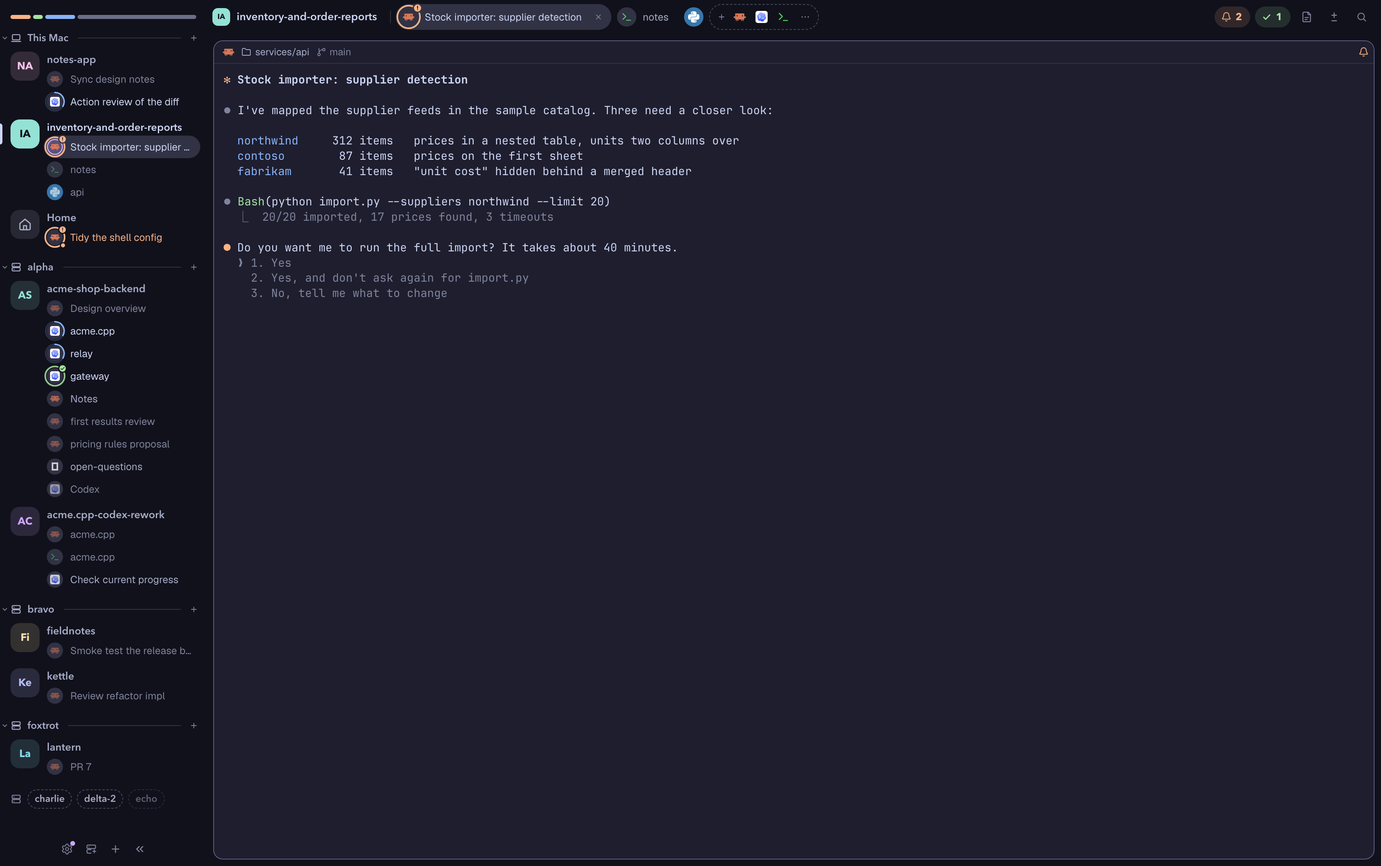
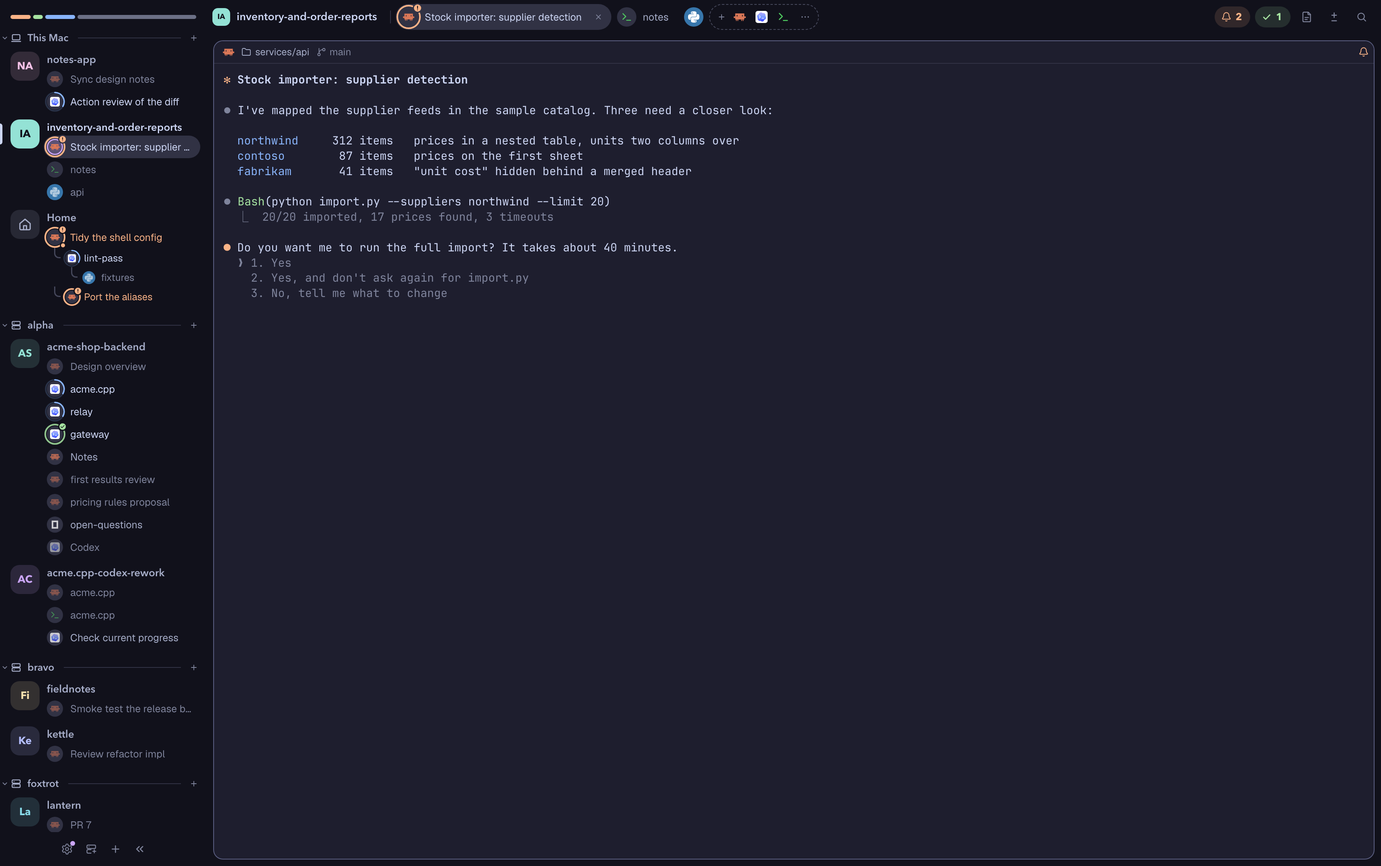
List sub-agents as rows under their tab in glyph's rail
A terminal that a tab's agent started with `hc run`, and that has no pane,
now gets a 24px row under the tab's: a hook from its starter's logo, a
16px orb and its name. One at work or blocked is drawn as a tab is, one at
rest is dim, and a click opens Herdr's peek at it. The dot on the tab's
orb stays, and the logos-only rail shows only the dot.

A sub-agent that was given a pane no longer counts as one. It shows as
that pane, and what it started is listed under the tab that holds it, so
nothing is listed twice.

The sample fleet has named, nested and ended sub-agents, and the rail test
covers the rows (38 checks). RECIPE.md, the notes and preview.png follow.

Changed region(s): [[0.0, 0.281, 0.124, 0.9678]]

diff --git a/glyph/mods/glyph/data.js b/glyph/mods/glyph/data.js
@@ -51,6 +51,18 @@ export const tilde = (p) => (p ?? "").replace(/^\/(?:Users|home)\/[^/]+(?=\/|$)/
 // Agents print a status glyph (a spinner, a star) before their title.
 const clean = (s) => (s ?? "").replace(/^[^\p{L}\p{N}~/]+/u, "").trim();
 const push = (map, key, value) => (map.get(key) ?? map.set(key, []).get(key)).push(value);
+// Whether a word only repeats its program ("Codex"): the logo says that already.
+const echoes = (program, w) => [program?.name, program?.key].some((p) => p && p.toLowerCase() === w.toLowerCase());
+// What a terminal's own title tells that its logo and its project's tile don't, or "".
+// Some agents end theirs with " | <project>" or " | <the folder they are in>" (`names`).
+// Words that only repeat the program, a folder or a user@host tell nothing, and a terminal
+// nobody titled is called by its address ("t7", "alpha/t7").
+function telling(whole, address, program, names) {
+  const tail = names.map((n) => ` | ${n}`.toLowerCase()).find((x) => whole.toLowerCase().endsWith(x));
+  const said = tail ? whole.slice(0, -tail.length).trim() : whole;
+  const unset = said === address || said === address.split("/").pop();
+  return said && !unset && !echoes(program, said) && !/^[~/]|^[A-Za-z]:\\/.test(said) && !said.includes("@") ? said : "";
+}
 
 export function duration(ms) {
   const m = Math.floor(ms / 60000);
@@ -66,18 +78,30 @@ export function model(machineInfo = []) {
   const sp = spaces(), ps = panes(), terms = terminals();
   const hue = hues(sp);
   const kept = shared(BLANK) ?? {};
-  const termBy = new Map(), kids = new Map(), byTab = new Map();
+  const termBy = new Map(), kids = new Map(), byTab = new Map(), paned = new Set();
   for (const x of terms) {
     termBy.set(x.address, x);
     if (x.parent && x.state === "live") push(kids, x.parent, x);
   }
-  for (const p of ps) push(byTab, p.tab, p);
-  // Every live sub-agent under a terminal, however deep.
-  const below = (address, seen = new Set()) => (kids.get(address) ?? []).flatMap((k) => {
-    if (seen.has(k.address)) return [];
-    seen.add(k.address);
-    return [k, ...below(k.address, seen)];
-  });
+  for (const p of ps) {
+    push(byTab, p.tab, p);
+    if (p.terminal) paned.add(p.terminal);
+  }
+  // Every live sub-agent under a terminal, however deep, each right after the one that
+  // started it. One that was given a pane (terminal.keep) is not among them: it shows as
+  // that pane, in whichever tab, and what it started is listed there.
+  const below = (s, address, depth = 1) => (kids.get(address) ?? []).flatMap((k) => (paned.has(k.address) ? [] : [sub(s, k, depth), ...below(s, k.address, depth + 1)]));
+  // A sub-agent as a line under its tab shows it. It goes by the name it was started
+  // with, else by what it says it is doing, else by its program.
+  const sub = (s, k, depth) => {
+    const own = telling(clean(k.report?.title), k.address, k.program, [s.name, ...tilde(k.cwd).split("/").filter(Boolean)]);
+    return {
+      id: k.address, depth, program: k.program ?? null, own,
+      // It reports to its parent: its "done" is not news, its error is.
+      status: k.status === "error" ? "blocked" : k.status === "done" ? "idle" : k.status ?? null,
+      label: k.name || own || k.template || k.program?.name || k.address,
+    };
+  };
 
   const tab = (s, c) => {
     const mine = byTab.get(c.id) ?? [];
@@ -94,33 +118,17 @@ export function model(machineInfo = []) {
       if (!lead || (agent && !had) || (agent === had && rank(p.status) > rank(lead.status))) lead = p;
     }
     let status = c.status ?? null;
-    const subs = { count: 0, status: null };
-    for (const p of mine) {
-      if (!p.terminal) continue;
-      for (const k of below(p.terminal)) {
-        // A sub-agent reports to its parent: its "done" is not news, its error is.
-        const st = k.status === "error" ? "blocked" : k.status === "done" ? "idle" : k.status;
-        subs.count += 1;
-        if (rank(st) > rank(subs.status)) subs.status = st;
-      }
-    }
+    // `list` is what the rail's lines show; `count` and `status` are the orb's dot.
+    const subs = { count: 0, status: null, list: [] };
+    for (const p of mine) if (p.terminal) subs.list.push(...below(s, p.terminal));
+    subs.count = subs.list.length;
+    for (const k of subs.list) if (rank(k.status) > rank(subs.status)) subs.status = k.status;
     if (rank(subs.status) > rank(status)) status = subs.status;
     const term = lead ? termBy.get(lead.terminal) : null;
     const path = tilde(lead?.cwd).split("/").filter(Boolean);
     const folder = path[path.length - 1] ?? "";
-    // Some agents end their title with " | <project>" or " | <the folder they are in>":
-    // the tile and the pane's header already say which.
-    const whole = clean(term?.report?.title) || clean(lead?.title);
-    const tail = [s.name, ...path].map((n) => ` | ${n}`.toLowerCase()).find((x) => whole.toLowerCase().endsWith(x));
-    const said = tail ? whole.slice(0, -tail.length).trim() : whole;
-    // Words that only repeat the program ("Codex") or the folder say nothing a logo doesn't,
-    // and a terminal nobody titled is called by its address ("t7", "alpha/t7").
-    const echo = (w) => [lead?.program?.name, lead?.program?.key].some((p) => p && p.toLowerCase() === w.toLowerCase());
-    const address = lead?.terminal ?? "";
-    const unset = said === address || said === address.split("/").pop();
-    const named = c.named && !echo(c.name);
-    const telling = said && !unset && !echo(said) && !/^[~/]|^[A-Za-z]:\\/.test(said) && !said.includes("@");
-    const own = telling ? said : "";
+    const own = telling(clean(term?.report?.title) || clean(lead?.title), lead?.terminal ?? "", lead?.program, [s.name, ...path]);
+    const named = c.named && !echoes(lead?.program, c.name);
     const title = named ? c.name : own;
     return {
       id: c.id, index: c.index, name: c.name, named, active: c.active, shown: s.active && c.active,
@@ -182,6 +190,11 @@ export function goTab(c) {
     run("space.select", { id: c.space.id });
     run("tab.select", { id: c.id });
   }
+}
+
+// Look at a sub-agent: it has no pane, so in Herdr's peek, over the shown tab.
+export function goSub(k) {
+  run("terminal.peek", { terminal: k.id });
 }
 
 // The program a new plain terminal runs, as a shell tab shows it: asked of one that is open,
@@ -275,6 +288,12 @@ export function tabTip(c, now, seen) {
   const how = c.status === "blocked" ? "needs you" : c.status === "done" ? "finished" : c.status === "working" ? `working${ago}` : c.status === "idle" ? `idle${ago}` : "";
   const subs = c.subs.count ? `${c.subs.count} sub-agent${c.subs.count === 1 ? "" : "s"}` : "";
   return [what, where, how, subs].filter(Boolean).join("  ·  ");
+}
+
+// A sub-agent's words: its name, what it says it is doing, and how it is doing.
+export function subTip(k) {
+  const how = k.status === "blocked" ? "needs you" : k.status === "working" ? "working" : k.status === "idle" ? "idle" : "";
+  return [k.label, k.own !== k.label ? k.own : "", how].filter(Boolean).join("  ·  ");
 }
 
 export function find(node, id) {

diff --git a/glyph/mods/glyph/rail.js b/glyph/mods/glyph/rail.js
@@ -2,8 +2,9 @@
 // each project is a square tile in its hue beside its name, and each of the project's
 // tabs is a row: a round logo (its ring says how it is doing) and the few words that
 // tell it from the others. Click a row to go there, right-click for its menu; click a
-// tile or a name for the project. The strip on top is every tab by state (needs you,
-// finished, working, idle): click a color to visit the next one in it.
+// tile or a name for the project. The sub-agents a tab's agents started are smaller
+// rows under it: click one to peek at it. The strip on top is every tab by state (needs
+// you, finished, working, idle): click a color to visit the next one in it.
 // A machine's line folds its projects away and back (click its name): folded, the line
 // shows how its tabs are doing as one small strip, so nothing that needs you is hidden.
 // Machines with nothing running share one row of dashed pills at the end: click one to
@@ -14,7 +15,7 @@
 import { div, svg } from "gpui-kit";
 import { v_flex, h_flex } from "gpui-base";
 import { theme, run, hc, layout, window as win, openOverlay, agents, setAgentOrder, updates } from "herdr";
-import { model, goTab, jump, tabTip, since, find, tabMenu } from "./data.js";
+import { model, goTab, goSub, jump, tabTip, subTip, since, find, tabMenu } from "./data.js";
 import { ICON, DISPLAY, alpha, orb, tile, iconButton } from "./ui.js";
 
 const COMPACT = 160, WIDE = 256;
@@ -193,6 +194,24 @@ export class Rail {
       .child(div().flex_1().min_w(0).truncate().text_size(12.5).text_color(ink).child(c.label));
   }
 
+  // A sub-agent as a smaller line under its tab's: a hook from the one that started it,
+  // its logo and its name. One at work or in trouble is as bright as a tab; one at rest
+  // is dim, since what it did is its parent's to tell. Click it to look at it.
+  sub(t, k) {
+    const quiet = !k.status || k.status === "idle";
+    const ink = k.status === "blocked" ? t.blocked : quiet ? t.dim : t.foreground;
+    // The hook hangs from the middle of its parent's logo: 13px in under a tab's, and 21px
+    // further for each sub-agent between.
+    return h_flex().h(24).flex_none().ml(-4).pl(13 + (k.depth - 1) * 21).items_center()
+      .child(div().self_start().flex_none().w(8).h(13).mt(-1).mr(3).border_l(1.5).border_b(1.5).rounded_bl(6).border_color(t.input))
+      .child(h_flex().id(`sub-${k.id}`).h(24).flex_1().min_w(0).pr(9).gap(4).items_center().rounded(12).cursor_pointer()
+        .hover((x) => x.bg(t.hover))
+        .tooltip(subTip(k))
+        .on_click(() => goSub(k))
+        .child(orb(t, { size: 16, program: k.program, status: k.status, fade: 0.6 }))
+        .child(div().flex_1().min_w(0).truncate().text_size(12).text_color(ink).child(k.label)));
+  }
+
   space(t, s, wide, now, width) {
     const select = () => run("space.select", { id: s.id });
     const menu = () => openOverlay({ mod: "menu", kind: "popup", width: 200, height: 260, props: { tab: "space", target: { id: s.id } } });
@@ -226,7 +245,7 @@ export class Rail {
           .on_click(select)
           .on_mouse_down("right", (_e, cx) => { cx.stop_propagation(); menu(); })
           .child(s.label))
-        .children(s.tabs.map((c) => this.row(t, c, s, now))));
+        .children(s.tabs.flatMap((c) => [this.row(t, c, s, now), ...c.subs.list.map((k) => this.sub(t, k))])));
   }
 
   foot(t, wide) {

diff --git a/dev/glyph/harness/herdr-fake.js b/dev/glyph/harness/herdr-fake.js
@@ -14,12 +14,21 @@ const P = {
 };
 let n = 0;
 const PANES = [], TERMS = [];
+// What a terminal started with `hc run`, and what those started: { prog, status, name, title,
+// gone, kids }. Each is addressed after its parent ("t6-1", "t6-1-1").
+function kids(parent, cwd, list = []) {
+  list.forEach((k, i) => {
+    const address = `${parent}-${i + 1}`, status = k.status ?? null;
+    TERMS.push({ address, state: k.gone ? "exited" : "live", status, parent, name: k.name ?? null, template: null, cwd, program: P[k.prog ?? "codex"], report: { state: status, title: k.title ?? null } });
+    kids(address, cwd, k.kids);
+  });
+}
 function tab(space, name, prog, status, title, ago, extra = {}) {
   n += 1;
   const id = `${space.machine ? space.machine + "/" : ""}tb${n}`, pane = `p${n}`, term = `${space.machine ? space.machine + "/" : ""}t${n}`;
   PANES.push({ pane, terminal: term, tab: id, title: extra.untitled ? term : title ? `✳ ${title}` : P[prog].name, cwd: space.cwd, branch: space.branch, status, app: prog, program: P[prog], focused: Boolean(extra.active) && space.active, zoomed: false, movable: false });
   TERMS.push({ address: term, state: "live", status, parent: null, program: P[prog], report: { state: status, title: title ?? null } });
-  for (const k of extra.kids ?? []) TERMS.push({ address: `${term}-k${k}`, state: "live", status: k, parent: term, program: P.codex });
+  kids(term, space.cwd, extra.kids);
   return { id, index: space.tabs.length + 1, name: name ?? String(space.tabs.length + 1), named: Boolean(name), active: Boolean(extra.active), status, panes: 1, zoomed: false, settled: false, settled_at: null,
     changed_at: ago == null ? null : now - ago * 60000, working_since: status === "working" && ago != null ? now - ago * 60000 : null };
 }
@@ -38,7 +47,13 @@ space("sp2", "inventory-and-order-reports", null, "main", "/Users/me/code/invent
   ["notes", "shell", null, null, null],
   [null, "python", null, null, null],
 ]);
-space("sp3", "~", null, null, "/Users/me", ACTIVE === "sp3", [[null, "claude", "working", "Tidy the shell config", 12, { active: true, kids: ["working", "error"] }]]);
+// Its agent started three helpers: one named, at work, with a program of its own; one that
+// goes by its title and hit an error; and one that has ended, which gets no row.
+space("sp3", "~", null, null, "/Users/me", ACTIVE === "sp3", [[null, "claude", "working", "Tidy the shell config", 12, { active: true, kids: [
+  { status: "working", name: "lint-pass", title: "Lint the zshrc", kids: [{ prog: "python", name: "fixtures" }] },
+  { prog: "claude", status: "error", title: "✳ Port the aliases" },
+  { status: "idle", name: "old-run", gone: true },
+] }]]);
 space("alpha/sp4", "acme-shop-backend", "alpha", "order-queue", "/home/me/acme-shop-backend", ACTIVE === "alpha/sp4", [
   [null, "claude", "idle", "Design overview", 800],
   ["acme.cpp", "codex", "working", "Fuzz the config loader", 2],

diff --git a/dev/glyph/tools/spec2html.py b/dev/glyph/tools/spec2html.py
@@ -107,7 +107,7 @@ def px(v): return "%gpx" % v
 SIMPLE = {
     "flex": "display:flex", "flex_none": "flex:none", "flex_1": "flex:1 1 0%", "flex_wrap": "flex-wrap:wrap",
     "flex_col": "flex-direction:column", "flex_row": "flex-direction:row",
-    "items_center": "align-items:center", "items_start": "align-items:flex-start", "items_end": "align-items:flex-end",
+    "items_center": "align-items:center", "items_start": "align-items:flex-start", "items_end": "align-items:flex-end", "self_start": "align-self:flex-start",
     "justify_center": "justify-content:center", "justify_between": "justify-content:space-between", "justify_end": "justify-content:flex-end",
     "size_full": "width:100%;height:100%", "w_full": "width:100%", "h_full": "height:100%",
     "rounded_full": "border-radius:9999px", "absolute": "position:absolute", "relative": "position:relative",
@@ -123,7 +123,7 @@ VALUE = {
     "pl": "padding-left", "pr": "padding-right", "pt": "padding-top", "pb": "padding-bottom",
     "ml": "margin-left", "mr": "margin-right", "mt": "margin-top", "mb": "margin-bottom",
     "text_size": "font-size", "border": "border-width", "border_b": "border-bottom-width", "border_t": "border-top-width",
-    "border_l": "border-left-width", "border_r": "border-right-width",
+    "border_l": "border-left-width", "border_r": "border-right-width", "rounded_bl": "border-bottom-left-radius",
 }
 unknown = set()
 

diff --git a/glyph/RECIPE.md b/glyph/RECIPE.md
@@ -22,9 +22,10 @@ Three regions: the rail down the left, the bar across the top of the rest, and t
 - Each machine with projects has a 26px line: a 10px chevron, a laptop or server icon, its name at 12.5px, a hairline, and a 18px "+". One machine alone gets no line.
 - Under it, each project is a 36px tile beside its name at 13px. The shown project also has a 3px bar at the rail's edge.
 - Each tab is a 28px row: a 20px orb and a label at 12.5px. The shown tab's row is raised (`#313244`).
+- Each sub-agent is a 24px row under its tab's: a hook in `#45475a` hanging from the logo of whatever started it, a 16px orb and a name at 12px. A sub-agent is a terminal that one of the tab's agents started with Herdr's `hc run`, a helper agent or a plain program, and that has no pane.
 - Machines with nothing running share one row of dashed pills at the end.
 - A 42px foot has four icon buttons: settings, add a machine, new project, and one that switches the rail between 256px and 160px.
-- Narrower than 200px, the rows go and each project's orbs wrap beside its tile.
+- Narrower than 200px, the rows go, sub-agents' too, and each project's orbs wrap beside its tile.
 
 **Bar**
 
@@ -53,18 +54,21 @@ Three regions: the rail down the left, the bar across the top of the rest, and t
 - Done: a green (`#a6e3a1`) ring with a tick badge.
 - Idle: no ring. The logo fades to 75% after 15 minutes of rest and to 50% after two hours.
 - A tab takes the most urgent state of its agents and their sub-agents. Sub-agents add one small dot in their most urgent color.
+- A sub-agent's row shows working and blocked as a tab does, and its error counts as blocked. Finished or idle, the row is dim.
 
 **Going places**
 
 - Click a rail row or a bar pill to show that tab. Click a tile or a project's name to show the project.
+- Click a sub-agent's row for Herdr's peek at its terminal, over the shown tab.
 - Click a color in the strip at the top of the rail, or the bell or the tick in the bar, to go to the next tab in that state.
 - Click the project's name in the bar, or search, for Herdr's picker.
 - Scroll over the bar to step through its tabs.
-- Hover anything for its words: a tab's title, project, machine, state, how long, and sub-agents.
+- Hover anything for its words: a tab's title, project, machine, state, how long, and how many sub-agents; a sub-agent's name, title and state.
 
 **Tabs**
 
 - A tab's title is the name it was given, else its agent's own title, else nothing. The rail falls back to its folder or program.
+- A sub-agent goes by the name it was started with (`hc run --name`), else its agent's own title, else its program.
 - Titles in the bar share the room: short ones stay whole, long ones are cut to a common width, at most 240px. With under 32px each, every tab but the shown one shows its logo only.
 - Double-click a tab, press F2, or right-click and choose Rename to name it. The dialog is Herdr's own, with the agent's title as its hint.
 - Right-click a tab for Rename, New tab and Close.
@@ -125,7 +129,7 @@ Three regions: the rail down the left, the bar across the top of the rest, and t
 - Calls: `run`, `hc`, `openOverlay`, `closeOverlay`, `nextCommand`, `notify`, `shared`, `setShared`, `setAgentOrder`.
 - Shared values: `space.colors` (the hues, shared with Herdr's Spaces list), `new-menu.agents` (read), `glyph.blank` (an empty project's name and folder), `glyph.shut` (a close asked of the bar).
 - Kept in the rail's `localStorage`: `seen` (since when each tab has rested) and `folded` (the folded machines). Each place the layout puts the mod is a copy with a `localStorage` of its own.
-- Commands: `tab.select`, `tab.new`, `tab.close`, `tab.move`, `tab.next`, `tab.prev`, `space.select`, `space.new`, `pane.focus`, `pane.split`, `pane.zoom`, `pane.close`, `mod.open`, `layout.resize`, `layout.select`, `layout.show`, `layout.hide`, `app.settings`, `window.minimize`, `window.maximize`, `window.close`.
+- Commands: `tab.select`, `tab.new`, `tab.close`, `tab.move`, `tab.next`, `tab.prev`, `space.select`, `space.new`, `pane.focus`, `pane.split`, `pane.zoom`, `pane.close`, `terminal.peek`, `mod.open`, `layout.resize`, `layout.select`, `layout.show`, `layout.hide`, `app.settings`, `window.minimize`, `window.maximize`, `window.close`.
 - Herdr's own mods, opened as they are: `picker`, `menu` (the project menu), `prompt` (rename), `new-menu`, `machine-add`, `files`, `changes`.
 - `setAgentOrder` follows the rail, so `agent.next` and `agent.prev` walk it top to bottom.
 
@@ -159,6 +163,13 @@ The rail runs `hc machine ls --json` every 20 s, to learn of machines without pr
 - The bar runs its follow-up commands from a 120 ms timer, not from `render`. With nothing drawn it still looks about once a second.
 - An error inside the loop around `nextCommand()` would end every key. The loop catches it and posts a notice.
 
+**Sub-agents**
+
+- Only terminals get rows. A helper that runs inside its agent's own process, such as Claude Code's Agent tool, is not a terminal, and Herdr reports nothing about it.
+- A row lasts as long as its terminal. A program an agent runs through `hc run` and waits for has a row until it exits, so rows come and go.
+- A sub-agent that was given a pane (`terminal.keep`, or keep in the peek) is a pane like any other and has no row. What it started is listed under the tab that holds its pane.
+- The rail keeps times for tabs only, so a resting sub-agent does not fade by age as a tab does. It is dim at once.
+
 **Keys**
 
 - `keys.json` is written for macOS. Whoever installs the layout merges its section by hand into their own `~/.config/herdr-app/keys.json`, after the mod is in place: ⌘T and ⌘W go to the bar, and a bar that doesn't know a command ignores it.
@@ -173,7 +184,7 @@ The rail runs `hc machine ls --json` every 20 s, to learn of machines without pr
 
 - The launcher pill shows at most four agents.
 - The rail's default must stay labelled. A rail of logos alone did not say which agent was which.
-- Not built: git ahead and behind counts, dragging to reorder projects, a custom toast. Zoom still shows in Herdr's terminal right-click menu for a lone pane, since a layout can only replace that menu whole.
+- Not built: git ahead and behind counts, dragging to reorder projects, a custom toast, a menu on a sub-agent's row (the peek has keep and close). Zoom still shows in Herdr's terminal right-click menu for a lone pane, since a layout can only replace that menu whole.
 - Built and checked on macOS with herdr-app 0.1.15. The window buttons for Linux and Windows have never been drawn there.
 - The mod runs under any theme, but the hues, the ink on filled tiles and the focus border were picked for a dark one.
 
@@ -183,6 +194,7 @@ The rail runs `hc machine ls --json` every 20 s, to learn of machines without pr
 - With projects on two machines, each has a line with its name, and machines with nothing running share one dashed row.
 - An agent at work shows the turning blue arc. One that needs you pulses peach and raises the bell's count. One that finished wears the green ring and raises the tick's count.
 - Clicking a rail row shows that tab. F2 opens the rename dialog with the agent's own title as its hint.
+- An agent that runs `hc run --bg --name helper claude "…"` gets a row named helper under its tab, with the turning arc while the helper works. Clicking the row opens Herdr's peek at it.
 - Dragging a pill moves the tab to where it stood when released.
 - ⌘W on a shell closes it. ⌘W on an agent turns its tab red, and a second ⌘W within 3 s closes it.
 - After a close the tab after it is shown.

diff --git a/CONTRIBUTING.md b/CONTRIBUTING.md
@@ -62,7 +62,7 @@ Paths below are relative to `dev/glyph/`. Every script finds that folder and the
 - `tools/preview-states.sh` does the same for the states of `harness/all.sh`: a folded machine, a tab and a pane header waiting for their second close press, the tab menu asking again, and a project's empty page. `spec2html.py --body F` draws a mod pane's tree where the terminal would be.
 - `logic/run.sh TEST.mjs` puts the mod next to `logic/kit-stub.mjs`, a gpui-kit/gpui-base stub whose builders record ids, props and handlers. A test calls the handlers with made-up events and reads what the fake `run`/`openOverlay` were asked to do. This is the only testing clicks, drags and menus have had.
   - `bar-test.mjs`: 60 passed (2026-11-14).
-  - `rail-test.mjs`: 30 passed (2026-11-14). It covers the rail, the fold, the tab menu and the pane header. Its menu section needs the menu role and a tab: `ROLE=menu PANE=alpha/tb8 sh logic/run.sh rail-test.mjs`.
+  - `rail-test.mjs`: 38 passed (2026-11-14). It covers the rail, sub-agent rows, the fold, the tab menu and the pane header. Its menu section needs the menu role and a tab: `ROLE=menu PANE=alpha/tb8 sh logic/run.sh rail-test.mjs`.
   - `close-test.mjs`: 59 passed (2026-11-14). It covers the bar's closing, the empty page, the first tab of the next project and the start keys: `ACTIVE=sp2 sh logic/run.sh close-test.mjs`. The fake app does nothing by itself, so the test changes the fleet after each command the way Herdr was seen to ("Tabs and projects" in the platform doc).
 - `tools/await-then-drag.sh` waits until the window is drawing, then runs drag-pass.sh once.
 - `tools/drag-pass.sh` and `tools/live-pass.sh` are the filmed live stand-ins. drag-pass plays a pretended drag. live-pass plays every state, then the wider rail. Both restore the real files from `glyph/` in a `trap`.
@@ -80,10 +80,11 @@ Paths below are relative to `dev/glyph/`. Every script finds that folder and the
   - The pane header and all four states.
   - A pretended drag filmed in the real strip (stand-in bar.js, 3 s): the lifted tab stayed on top, the others slid under it and aside, and it returned cleanly at the end.
   - The chevrons on the machines' lines, the shell logo on the plain-terminal launcher, a tab red after its first close press, and a project's empty page.
+  - Sub-agent rows under a real tab: two helpers started with `hc run`, each on its hook, one at work (the arc, a bright name) and one resting (dim).
 - **Checked in the real app by commands** (`dev/glyph/tools/close-pass.py`: 21 passed, 2026-11-14):
   - One press closes a shell and two close a running program. A second press after 3 s counts as a first.
   - The tab after the closed one is shown, or the one before it for the last tab.
   - A last tab leaves its project on its empty page, with the name and folder kept. A new tab from the page starts in that folder. Leaving the page, or the close key on it, closes the project.
   - When the shown project closes, from Herdr's own close or the close key on its page, the next project shows its first tab.
-- **Seen only offline:** a "needs you" row in the labelled rail, the logos-only rail with larger machine names, the strip's fall-back to logos, the tab menu and its red Close row, the rename dialog's new hint, a folded machine with its strip, and the pane header's red ×.
-- **Never tried with a real pointer or key press:** hover tooltips, clicks, right-click menus, a real drag, scrolling the strip, F2 and the other bound keys (the live pass sends their commands, not the keys), folding a machine, the launchers on the empty page. If something is reported broken, start there.
+- **Seen only offline:** a "needs you" row in the labelled rail, the logos-only rail with larger machine names, the strip's fall-back to logos, the tab menu and its red Close row, the rename dialog's new hint, a folded machine with its strip, the pane header's red ×, and the rows of a blocked sub-agent and of one started by another sub-agent.
+- **Never tried with a real pointer or key press:** hover tooltips, clicks (a sub-agent row's peek among them), right-click menus, a real drag, scrolling the strip, F2 and the other bound keys (the live pass sends their commands, not the keys), folding a machine, the launchers on the empty page. If something is reported broken, start there.

diff --git a/docs/herdr-platform.md b/docs/herdr-platform.md
@@ -27,6 +27,8 @@ Learned while building looks on herdr-app 0.1.15 (2026-11-11 to 2026-11-14). Rec
 - Agent titles can start with status glyphs, and Codex's end with " | <project or folder>".
 - `hc machine ls` lists machines.
 - A tab started with `argv` reports that program, not the shell it runs in: `program.shell` is false while `cat` runs.
+- A terminal an agent started with `hc run` is in `terminals()` with `parent` set to its starter's address, and with `name` if it was started with `--name`. It has no pane, so `panes()` leaves it out. `herdr-app ls` lists it under its parent's `sub_agents`.
+- `hc ls` and `herdr-app ls` list terminals only. A helper inside an agent's own process (Claude Code's Agent tool) was in neither while it ran (checked 2026-11-14).
 
 ## Tabs and projects
 
